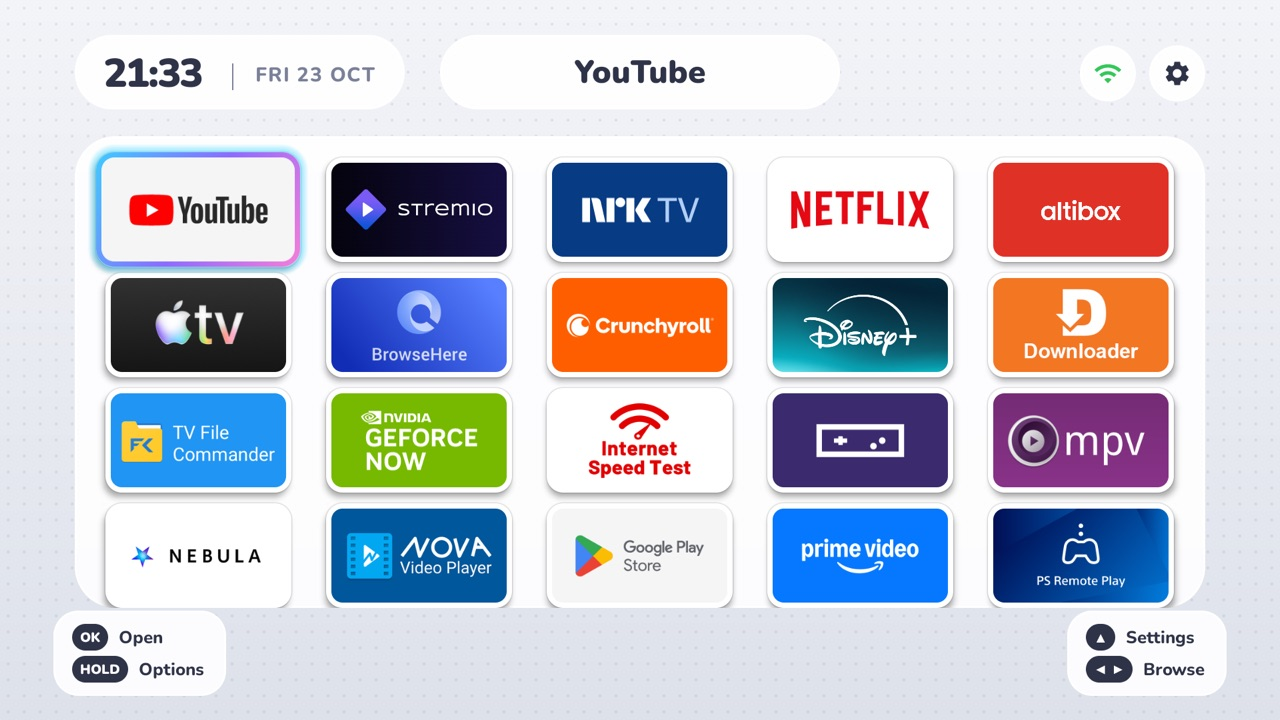
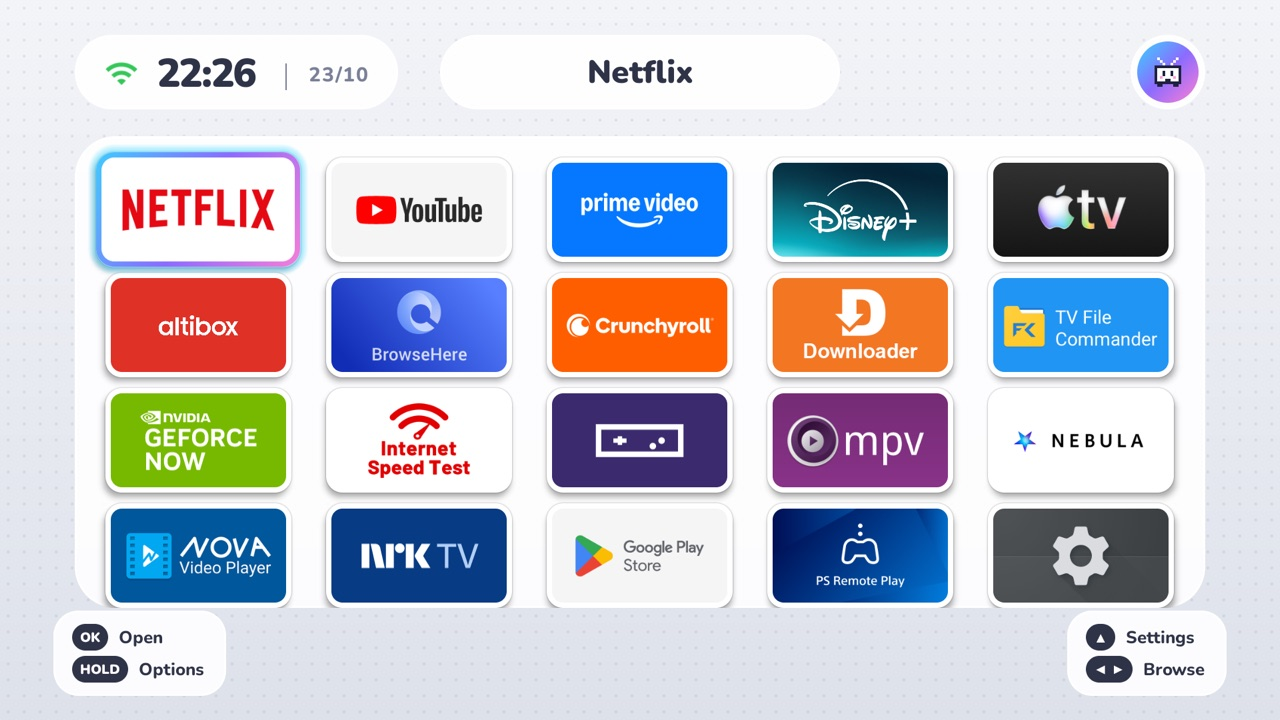
docs, themes: the iiSU skin's guide, iisu-light and iisu-dark themes, gif_halve.py
docs/iisu.md explains the skin, with a Claude Code prompt and manual steps; the README opens with a note
about the fork. theme.ps1 pushes avatar.png and screensaver.gif like theme.sh, and the fork's APK gate is
640 KB for the skin's fonts and sounds. Theme screenshots from a Chromecast with Google TV HD, Android 14.

diff --git a/tools/gif_halve.py b/tools/gif_halve.py
@@ -1,0 +1,66 @@
+"""Keeps every other frame of a GIF and doubles each kept frame's delay (50 fps -> 25 fps, same loop length).
+
+Safe for GIFs whose frames are disposed to the background (disposal 2), where every frame stands on its own.
+Usage: gif_halve.py in.gif out.gif
+"""
+import struct
+import sys
+
+
+def sub_blocks(d, i):
+    """Index just past a run of data sub-blocks starting at i."""
+    while d[i]:
+        i += d[i] + 1
+    return i + 1
+
+
+def main(src, dst):
+    d = open(src, "rb").read()
+    out = bytearray(d[:13])
+    flags = d[10]
+    i = 13
+    if flags & 0x80:
+        i += 3 * (2 << (flags & 7))
+        out += d[13:i]
+    pending_gce = None
+    frame = 0
+    kept = 0
+    while i < len(d):
+        b = d[i]
+        if b == 0x3B:
+            out.append(0x3B)
+            break
+        if b == 0x21:
+            end = sub_blocks(d, i + 2)
+            block = bytearray(d[i:end])
+            if d[i + 1] == 0xF9:
+                pending_gce = block
+                if (block[3] >> 2) & 7 not in (0, 1, 2):
+                    sys.exit("frames are not self-contained (disposal 3); not safe to drop frames")
+            else:
+                out += block
+            i = end
+            continue
+        if b == 0x2C:
+            desc_end = i + 10
+            lflags = d[i + 9]
+            if lflags & 0x80:
+                desc_end += 3 * (2 << (lflags & 7))
+            end = sub_blocks(d, desc_end + 1)   # +1 skips the LZW minimum code size
+            if frame % 2 == 0:
+                if pending_gce is not None:
+                    delay = struct.unpack("<H", pending_gce[4:6])[0]
+                    pending_gce[4:6] = struct.pack("<H", delay * 2)
+                    out += pending_gce
+                out += d[i:end]
+                kept += 1
+            frame += 1
+            pending_gce = None
+            i = end
+            continue
+        sys.exit(f"unexpected byte {b:#x} at {i}")
+    open(dst, "wb").write(out)
+    print(f"{frame} frames -> {kept}, {len(d)} -> {len(out)} bytes")
+
+
+main(sys.argv[1], sys.argv[2])

diff --git a/docs/iisu.md b/docs/iisu.md
@@ -1,0 +1,114 @@
+# iiSU skin
+
+This fork of [cleanyourtv](https://github.com/Gathin23/cleanyourtv) adds an **iiSU-style look** to its launcher:
+the console-menu style of the [iiSU](https://github.com/iisu-network/iiSU) handheld frontend, and of the
+Wii U and 3DS menus it borrows from, on an Android TV or Google TV. Everything else in cleanyourtv (the
+debloat, the safety rules, the one-line restore) is unchanged.
+
+| iiSU light | iiSU dark |
+|---|---|
+| <img src="../themes/iisu-light/screenshot.jpg" width="420" alt="iiSU light on a Chromecast with Google TV HD"> | <img src="../themes/iisu-dark/screenshot.jpg" width="420" alt="iiSU dark on a Chromecast with Google TV HD"> |
+
+Both screenshots are from a Chromecast with Google TV HD (Android 14).
+
+## What you get
+
+- A pale (or navy) dotted backdrop, with every app in one big frosted panel that scrolls, and white bezels round
+  the tiles.
+- A cyan-to-violet focus ring, and a title pill at the top that names the focused app.
+- A status pill with the network icon (green while online), the time and the date.
+- An avatar pill with your name and picture. It is also the Settings button: OK opens the TV's settings, and holding
+  OK opens the launcher menu.
+- Button hints in the bottom corners, and the Settings, Inputs and tile menus restyled to match.
+- [Nunito](https://fonts.google.com/specimen/Nunito), a rounded heavy font (SIL Open Font License), and two soft UI sounds: a tick
+  when you move and a chime when you open something.
+- A screensaver that plays your own GIF (a Mii dancing, say) on the light backdrop, with the time in a corner.
+- **Launcher settings → Look**: Classic, iiSU light or iiSU dark, switchable with the remote.
+
+Not affiliated with iiSU or Nintendo. None of iiSU's art, fonts, sounds or code are used: iiSU is closed source,
+so this is a look recreated from scratch. The sounds were synthesized for this fork, and the default avatar is an
+original pixel-art TV.
+
+## Install it with Claude Code (or another coding agent)
+
+You need a computer on the same Wi-Fi as the TV, with ADB debugging turned on on the TV (cleanyourtv's
+[README](../README.md) explains how). Then:
+
+```bash
+git clone https://github.com/janathan821/cleanyourtv-iisu.git
+cd cleanyourtv-iisu
+claude
+```
+
+And paste:
+
+```text
+Read AGENTS.md and then PROMPT.md, and clean up my TV at <tv ip> by following PROMPT.md exactly. Once the
+launcher is installed and confirmed as Home, give it the iiSU look by pushing themes/iisu-dark with
+tools/theme.sh (themes/iisu-light if I ask for light). If I give you a name, a picture or a GIF, follow
+docs/iisu.md's "Make it yours" section to make my own copy of the theme in work/themes/my-iisu, and push that
+instead.
+```
+
+Already ran cleanyourtv on this TV? Then skip the cleanup and ask only for the last part: rebuild the launcher
+from this fork with `launcher/build-and-install.sh` and push the theme.
+
+## Install it yourself
+
+The launcher builds the same way as upstream (JDK 17 and the Android SDK; see the README's launcher section):
+
+```bash
+TV_HOST=192.168.1.50 launcher/build-and-install.sh     # build this fork's launcher and make it Home
+TV_HOST=192.168.1.50 tools/theme.sh themes/iisu-dark   # or themes/iisu-light
+```
+
+On Windows, `launcher\build-and-install.ps1` and `tools\theme.ps1` do the same. Pass the same extras to
+`build-and-install` that you used before (`INPUT_KEY_SERVICE=1` for a remapped remote button, and so on).
+
+## Make it yours
+
+Copy a theme into `work/` (git ignores it, so your picture and name stay on your computer) and add your own files:
+
+```bash
+mkdir -p work/themes && cp -R themes/iisu-dark work/themes/my-iisu
+```
+
+| What | How |
+|---|---|
+| **Your name** in the avatar pill | `"greeting_name": "Sam"` in `config.json` |
+| **Your picture** in the avatar pill | A square `avatar.png` in the folder, about 192×192, ideally with a transparent background. It is cut to a circle on the cyan-violet gradient. A Mii render cropped to the head works well. |
+| **The screensaver animation** | A `screensaver.gif` in the folder. A transparent background looks best, since it sits on the light dotted backdrop. A 50 fps GIF keeps a weak TV's CPU busy: `python3 tools/gif_halve.py in.gif screensaver.gif` keeps every other frame (same loop length, about half the work). |
+| **Your dock** (the first tiles) | `dock_apps`, as in any theme |
+
+Then push it: `TV_HOST=192.168.1.50 tools/theme.sh work/themes/my-iisu`. The screensaver shows when the TV's own
+screensaver starts (Settings → System → Ambient mode / Screen saver), or after `home_idle_clock_minutes` on Home.
+
+## Going back
+
+- **Launcher settings → Look → Classic** (hold the avatar pill, then Launcher settings).
+- Or push any other theme, or reset: `tools/theme.sh --reset`.
+- To uninstall everything, cleanyourtv's restore works as usual (`tools/restore.sh`).
+
+## How heavy is it?
+
+Measured on a Chromecast with Google TV HD:
+
+| Situation | Launcher CPU |
+|---|---|
+| Sitting on Home | about 0 to 1%: nothing animates while Home is still |
+| Moving between tiles | about 45 to 50% of one core during the moves (the chip has four) |
+| Screensaver with a 25 fps GIF | about 40% of one core while it shows (about 60% at 50 fps) |
+| In another app | about 0% |
+
+Memory is about 100 MB, half of it graphics. The launcher still has no internet permission, so it cannot show ads
+or send anything anywhere.
+
+## For tinkerers
+
+- The whole skin is one switch, `iisu_skin` (`light`, `dark` or empty), described in
+  [themes/README.md](../themes/README.md). Off, the launcher is upstream's.
+- The code is in `launcher/app/src/main/java/com/gathin/tvhome/`: `Iisu.java` (colours, backdrop, pills, avatar,
+  sounds), `IisuScreensaver.java`, and small hooks in `MainActivity`, `AppAdapter`, `GlassView`, `Config`,
+  `ClockDream` and `ClockActivity`.
+- The APK is about 570 KB (Nunito and the sounds), so this fork's CI size gate is 640 KB instead of 480 KB.
+- To follow upstream: `git remote add upstream https://github.com/Gathin23/cleanyourtv.git && git pull upstream main`.

diff --git a/README.md b/README.md
@@ -2,6 +2,13 @@
   <a href="https://cleanyour.tv"><img src="https://raw.githubusercontent.com/Gathin23/cleanyourtv/main/docs/banner.png" alt="CleanYourTV. Your TV, minus the ads. Strip the bloatware from any Android TV or Google TV over Wi-Fi and replace the ad-filled home screen with a clean launcher that looks like an Apple TV. No root, no cable, nothing uninstalled, and a one-line restore." width="800"></a>
 </p>
 
+> **This fork adds an iiSU-style skin to the launcher**: a console-menu look in light or dark, with your own name,
+> avatar and screensaver GIF. See **[docs/iisu.md](docs/iisu.md)** for screenshots, a ready-made Claude Code prompt
+> and manual install steps. Everything below is upstream [cleanyourtv](https://github.com/Gathin23/cleanyourtv)'s
+> README, and applies here unchanged.
+>
+> <img src="themes/iisu-dark/screenshot.jpg" width="640" alt="The iiSU dark skin on a Chromecast with Google TV HD">
+
 <p align="center">
   <a href="https://github.com/Gathin23/cleanyourtv/stargazers"><img src="https://img.shields.io/github/stars/Gathin23/cleanyourtv?style=flat&cacheSeconds=1800&color=cfffcf&labelColor=15181e" alt="Stars"></a>
   <a href="https://github.com/Gathin23/cleanyourtv/pulls?q=is%3Amerged"><img src="https://img.shields.io/github/issues-search?query=repo%3AGathin23%2Fcleanyourtv%20is%3Apr%20is%3Amerged&style=flat&cacheSeconds=1800&label=merged%20PRs&color=cfffcf&labelColor=15181e" alt="Merged PRs"></a>
@@ -412,6 +419,7 @@ tools/theme.sh themes/aurora                                 # push a theme; --r
 | [`tools/adb-closed.py`](tools/adb-closed.py) | Checks that the TV's network ADB port is closed once debugging is off: exits 0 when nothing answers, 1 while it is still open, 2 when the check itself could not run. No `nc` needed. |
 | [`tools/privacy.py`](tools/privacy.py) | Audits the TV for voice, ACR and telemetry candidates and prints the evidence for each; `--write` turns the findings into a list `disable.sh` and `restore.sh` already understand. |
 | [`tools/theme.sh`](tools/theme.sh) | Push a folder from [`themes/`](themes/) to the launcher and restart Home. |
+| [`tools/gif_halve.py`](tools/gif_halve.py) | Halve a GIF's frame rate (every other frame, same loop length) for the iiSU skin's `screensaver.gif`. |
 | [`tools/bench.py`](tools/bench.py) | Measures the launcher that answers HOME: key latency, how far the focus moved, janky frames, cold start, return to Home, and the idle CPU and PSS it costs. Changes nothing on the TV and writes the raw per-key numbers to JSON; no extra install. |
 | [`tools/trace.py`](tools/trace.py), [`trace_report.py`](tools/trace_report.py) | Records Perfetto traces of the launcher (return to Home, cold start, D-pad) and reports where its time goes, per run and before against after. Optional: needs [`requirements-perf.txt`](tools/requirements-perf.txt). [Guide](tools/trace.md). |
 | [`tools/flamechart.py`](tools/flamechart.py) | Draws a before/after flame chart from those traces, for a pull request: one lane per thread on a shared time scale, the work a change targets in magenta with its total. Optional, like the trace tools. [Guide](tools/flamechart.md). |
@@ -501,7 +509,7 @@ The **TV** needs Android 8.0 (API 26) or newer: `minSdk` is a compile-time floor
 |---|---|
 | **Configure** | Dock order, hidden apps, Live TV app, 4 to 7 tiles per row, reduced motion. All in [`config.xml`](launcher/app/src/main/res/values/config.xml) |
 | **Settings on the TV** | Hold OK on Settings for launcher settings. Optional `launcher_settings_button` makes a normal click open them directly; TV settings remain on the settings page and their app tile. |
-| **Themes** | Background, wallpaper and layout from a `config.json` pushed over Wi-Fi, no rebuild. eight ship in [`themes/`](themes/), the built-in `default/` included |
+| **Themes** | Background, wallpaper and layout from a `config.json` pushed over Wi-Fi, no rebuild. ten ship in [`themes/`](themes/), the built-in `default/` included |
 | **25 languages** | Follows the TV's language, with a fully mirrored right-to-left layout for Hebrew |
 | **App library** | Optional: browse every installed app and add or remove Home shortcuts. See [the app library guide](docs/app-library.md) |
 | **Tile menu** | Optional (`tile_menu`): hold OK on a tile for Move, Remove from Home and App info. Off, holding OK opens App info |

diff --git a/AGENTS.md b/AGENTS.md
@@ -4,6 +4,19 @@ Instructions for coding agents (Claude Code, Codex, Gemini CLI, Cursor, Copilot 
 this repository. People should start with [README.md](README.md) and [CONTRIBUTING.md](CONTRIBUTING.md);
 this file repeats their rules in the form an agent needs, and links to them for the detail.
 
+## This fork: the iiSU skin
+
+This repository is a fork of [Gathin23/cleanyourtv](https://github.com/Gathin23/cleanyourtv) that adds one
+launcher switch, `iisu_skin`, with two themes (`themes/iisu-light`, `themes/iisu-dark`). [docs/iisu.md](docs/iisu.md)
+is its guide. When the person wants the iiSU look:
+
+- Clean the TV and install the launcher exactly as PROMPT.md says; the skin changes nothing about that.
+- Then push a theme: `tools/theme.sh themes/iisu-dark` (or `iisu-light`).
+- A name, a picture or a GIF they give you goes in their own copy under `work/themes/` (git ignores `work/`), as
+  `greeting_name`, `avatar.png` (square) and `screensaver.gif`, never into `themes/`. Halve a 50 fps GIF with
+  `tools/gif_halve.py` first.
+- This fork's APK size gate is 640 KB (upstream: 480 KB), for the skin's fonts and sounds.
+
 ## First: which job are you doing?
 
 | You were asked to | Do this |
@@ -117,7 +130,7 @@ use it and ends with the check to run.
 |---|---|
 | Tests, as CI runs them | `python3 -m unittest discover -s tests -v` after `python3 -m venv tools/venv` and `tools/venv/bin/pip install -r tools/requirements.txt`. On `main`, CI sets `CLEANYOURTV_STRICT=1`, which also checks the README's TV-model count. |
 | Launcher, if you touched `launcher/` | JDK 17, Android SDK platform 34, build-tools 34.0.0. In `launcher/`: `./gradlew --no-daemon testReleaseUnitTest lintRelease assembleRelease`. Lint must stay at zero errors. |
-| APK size gate | `launcher/app/build/outputs/apk/release/app-release.apk` must be under 491,520 B (480 KB). Linux: `stat -c %s`, macOS: `stat -f %z`. |
+| APK size gate | `launcher/app/build/outputs/apk/release/app-release.apk` must be under 655,360 B (640 KB) in this fork (upstream: 491,520 B). Linux: `stat -c %s`, macOS: `stat -f %z`. |
 | README rows | A new list has its row in `README.md` and `examples/README.md`; a theme in `themes/README.md`; an add-on in `addons/README.md`. |
 | One topic per PR | A TV list never rides inside a launcher feature PR. A device's list plus small fixes for that same device can be one PR. |
 | Tested on | Say which TV, Android version and firmware you tested on, in the PR template's "Tested on" line. |

diff --git a/themes/README.md b/themes/README.md
@@ -17,6 +17,8 @@ powershell -ExecutionPolicy Bypass -File tools\theme.ps1 -TvHost 192.168.1.50 th
 | `default/` | The built-in look written out as JSON, as a starting point for your own | <img src="default/screenshot.jpg" width="320" alt="default theme"> |
 | `aurora/` | A dark aurora wallpaper (teal and violet on navy, darker at the bottom) with a matching background colour | <img src="aurora/screenshot.jpg" width="320" alt="aurora theme"> |
 | `dussehra/` | Festive skin for Dussehra (ends 21 Oct 2026): a marigold toran, a faint gold rangoli, a diya for Wi-Fi, a bell for Inputs, a marigold for Settings and a petal shower | <img src="dussehra/screenshot.jpg" width="320" alt="dussehra theme"> |
+| `iisu-light/` | The iiSU skin (`iisu_skin`, see [docs/iisu.md](../docs/iisu.md)) in light: a pale dotted backdrop, one frosted panel of bezelled tiles, the cyan-to-violet focus ring, title, status and avatar pills, button hints, Nunito and UI sounds | <img src="iisu-light/screenshot.jpg" width="320" alt="iisu-light theme"> |
+| `iisu-dark/` | The same skin in navy | <img src="iisu-dark/screenshot.jpg" width="320" alt="iisu-dark theme"> |
 | `glass/` | Dark navy wallpaper with soft teal and violet light, the cinematic top shelf, a frosted-glass dock, icon-only buttons and the focus glow in the app's colour, gliding without overshoot | <img src="glass/screenshot.jpg" width="320" alt="glass theme"> |
 | `ruska/` | A Finnish autumn ("ruska") dusk over a lake: spruce shoreline, birches in autumn colour, a few falling leaves, drawn in code by `make_wallpaper.py`. The app-colour glow stays off the picture so the autumn colours keep their own light; the dock is 70% opaque so the lake shows through, and the focus glows in the app's colour without overshoot | <img src="ruska/screenshot.jpg" width="320" alt="ruska theme"> |
 | `scenes/` | 14 dark illustrated landscapes in `wallpapers/`, a new one every hour; drawn from code by `tools/scenes_wallpapers.py` | <img src="scenes/screenshot.jpg" width="320" alt="scenes theme"> |
